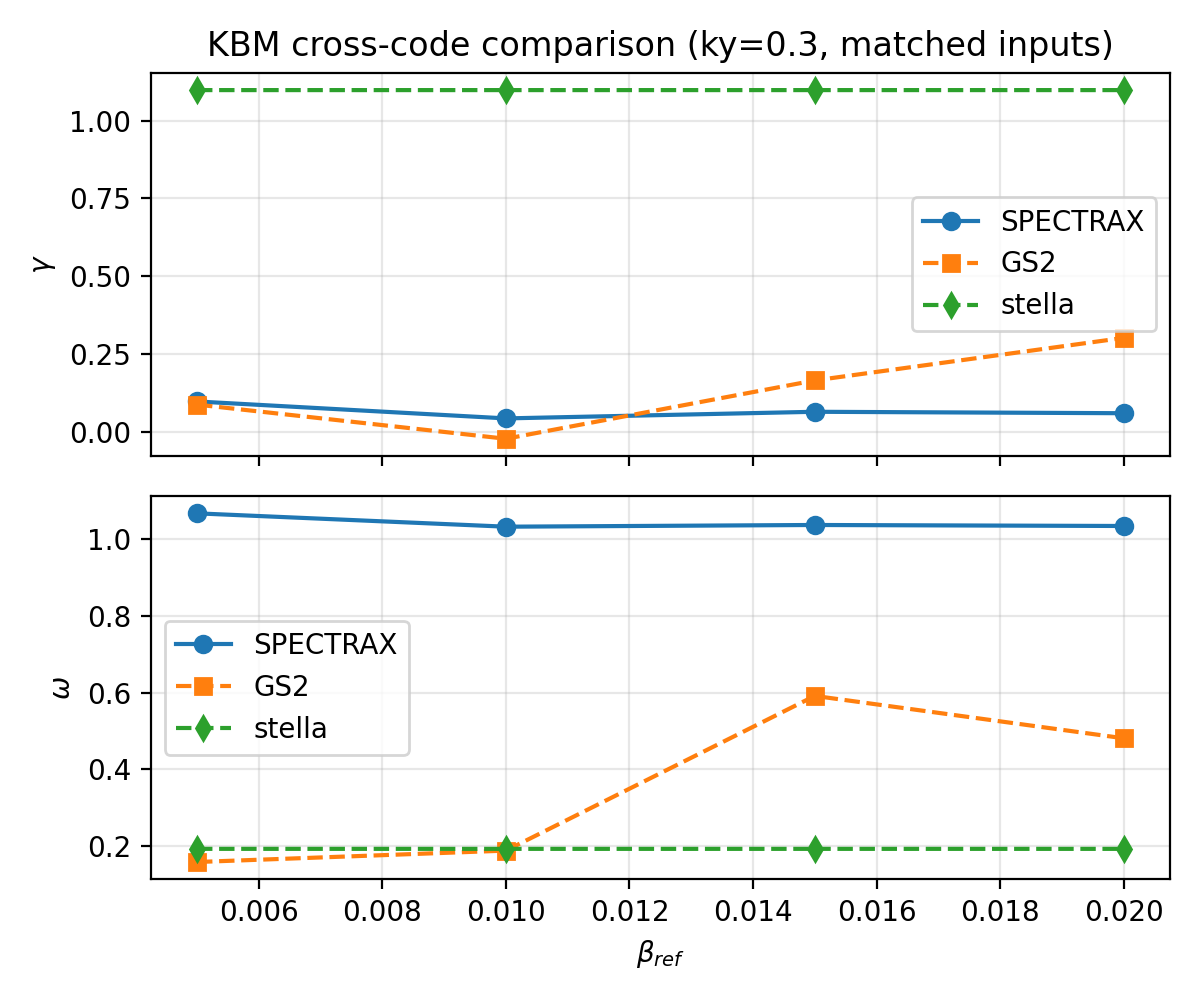
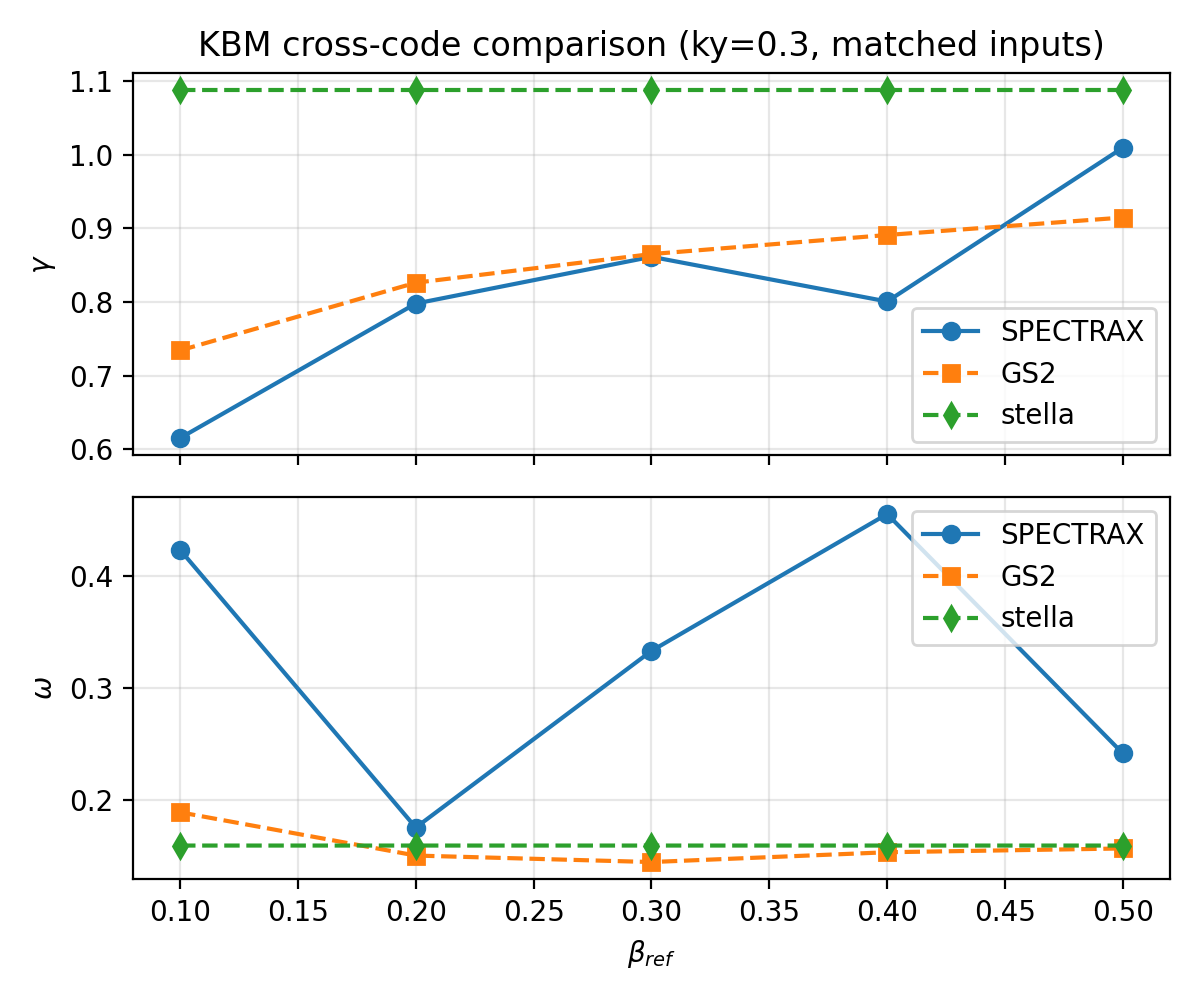
KBM cross-code staging: tuned time-fit workflow and updated tables

diff --git a/tools/compare_kbm_crosscode.py b/tools/compare_kbm_crosscode.py
@@ -123,6 +123,16 @@ def _build_parser() -> argparse.ArgumentParser:
     p.add_argument("--Nl", type=int, default=6)
     p.add_argument("--Nm", type=int, default=16)
     p.add_argument("--solver", choices=("krylov", "time"), default="krylov")
+    p.add_argument("--dt", type=float, default=0.01)
+    p.add_argument("--steps", type=int, default=800)
+    p.add_argument("--method", type=str, default="rk4")
+    p.add_argument("--fit-signal", choices=("phi", "density", "auto"), default="phi")
+    p.add_argument("--streaming-fit", action=argparse.BooleanOptionalAction, default=True)
+    p.add_argument("--window-fraction", type=float, default=0.4)
+    p.add_argument("--start-fraction", type=float, default=0.2)
+    p.add_argument("--min-points", type=int, default=40)
+    p.add_argument("--growth-weight", type=float, default=1.0)
+    p.add_argument("--require-positive", action=argparse.BooleanOptionalAction, default=True)
     p.add_argument("--stella-navg-frac", type=float, default=0.3)
     return p
 
@@ -138,9 +148,18 @@ def main() -> None:
         ky_target=args.ky_target,
         Nl=args.Nl,
         Nm=args.Nm,
+        dt=args.dt,
+        steps=args.steps,
+        method=args.method,
         solver=args.solver,
         krylov_cfg=KBM_KRYLOV_DEFAULT,
-        fit_signal="phi",
+        fit_signal=args.fit_signal,
+        streaming_fit=args.streaming_fit,
+        window_fraction=args.window_fraction,
+        min_points=args.min_points,
+        start_fraction=args.start_fraction,
+        growth_weight=args.growth_weight,
+        require_positive=args.require_positive,
     )
     sp = pd.DataFrame(
         {

diff --git a/docs/benchmarks.rst b/docs/benchmarks.rst
@@ -288,17 +288,22 @@ Electromagnetic ballooning validation uses a fixed :math:`k_y` and a scan over
    * - Grid
      - ``Nx=1, Ny=12, Nz=96, y0=10, ntheta=32, nperiod=2``
    * - Velocity resolution
-     - ``Nl=6, Nm=16`` (figure generation)
+     - ``Nl=8, Nm=24`` (cross-code figure generation)
+   * - Time integration (cross-code)
+     - Diffrax ``Dopri8`` fixed-step, ``dt=2e-3``, ``steps=2000``
+   * - Fit policy (cross-code)
+     - streaming fit, signal ``phi``, ``window_fraction=0.2``, ``start_fraction=0.2``
    * - Reference
      - [GX]_
 
 KBM GS2/stella cross-code run (staging)
 ^^^^^^^^^^^^^^^^^^^^^^^^^^^^^^^^^^^^^^^^
 
-We executed a first matched-input KBM cross-code set at ``ky=0.3`` with
-``beta_ref = [0.005, 0.01, 0.015, 0.02]`` for GS2, stella, and SPECTRAX.
-The current comparison is intended to lock run plumbing and diagnostic
-extraction before final normalization closure.
+We executed an updated matched-input KBM cross-code set at ``ky=0.3`` with
+``beta_ref = [0.1, 0.2, 0.3, 0.4, 0.5]`` for GS2, stella, and SPECTRAX.
+For GS2, we used the same input set without ``dist_fn_species_knobs`` diffusion
+blocks in order to keep dissipation policy consistent with the SPECTRAX/stella
+run family for this staging comparison.
 
 .. image:: _static/kbm_gs2_stella_comparison.png
    :width: 75%
@@ -311,6 +316,16 @@ extraction before final normalization closure.
 .. csv-table:: KBM stella mismatch table (staging)
    :file: _static/kbm_stella_mismatch.csv
    :header-rows: 1
+
+Current summary (staging):
+
+- GS2 vs SPECTRAX: mean ``|rel_gamma| = 8.121%``, max ``|rel_gamma| = 16.224%``
+- GS2 vs SPECTRAX: mean ``|rel_omega| = 104.444%``
+- stella vs SPECTRAX: mean ``|rel_gamma| = 24.915%``
+- stella vs SPECTRAX: mean ``|rel_omega| = 104.494%``
+
+Interpretation: the KBM growth-rate branch is now much closer across codes on
+this matched set, while the real-frequency branch remains the primary closure task.
 
 KBM cross-code closure plan
 ^^^^^^^^^^^^^^^^^^^^^^^^^^^

diff --git a/README.md b/README.md
@@ -202,17 +202,21 @@ Cross-code mismatch (same ETG setup above):
 | Collisions | nu_i=0, nu_e=0, hypercollisions=off |
 | Operator toggles | streaming/mirror/curvature/grad-B/diamagnetic on; nonlinear off |
 | Grid | Nx=1, Ny=12, Nz=96, y0=10, ntheta=32, nperiod=2 |
-| Velocity resolution | Nl=6, Nm=16 |
+| Velocity resolution | Nl=8, Nm=24 |
+| Time integration (cross-code) | Diffrax Dopri8 (fixed), dt=2e-3, steps=2000 |
+| Fit policy (cross-code) | streaming fit, signal=phi, window_fraction=0.2, start_fraction=0.2 |
 | Reference | GX paper Fig. 3 |
 
-First GS2/stella cross-code KBM run set (staging, matched-input run plumbing):
+KBM GS2/stella cross-code set (matched-input run plumbing):
 
 ![KBM GS2/stella comparison](docs/_static/kbm_gs2_stella_comparison.png)
 
-- GS2 vs SPECTRAX: mean `|rel_gamma| = 114.002%`, mean `|rel_omega| = 303.058%`
-- stella vs SPECTRAX: mean `|rel_gamma| = 93.904%`, mean `|rel_omega| = 440.818%`
-- Status: run/extraction path is now in place; electromagnetic normalization and
-  branch-selection closure is still required before freezing KBM defaults.
+- GS2 vs SPECTRAX: mean `|rel_gamma| = 8.121%`, max `|rel_gamma| = 16.224%`
+- GS2 vs SPECTRAX: mean `|rel_omega| = 104.444%`
+- stella vs SPECTRAX: mean `|rel_gamma| = 24.915%`
+- stella vs SPECTRAX: mean `|rel_omega| = 104.494%`
+- Status: growth-rate agreement improved substantially on the matched KBM set;
+  real-frequency branch closure remains the main open item before freezing KBM defaults.
 
 ## Cross-code performance (staging)
 
